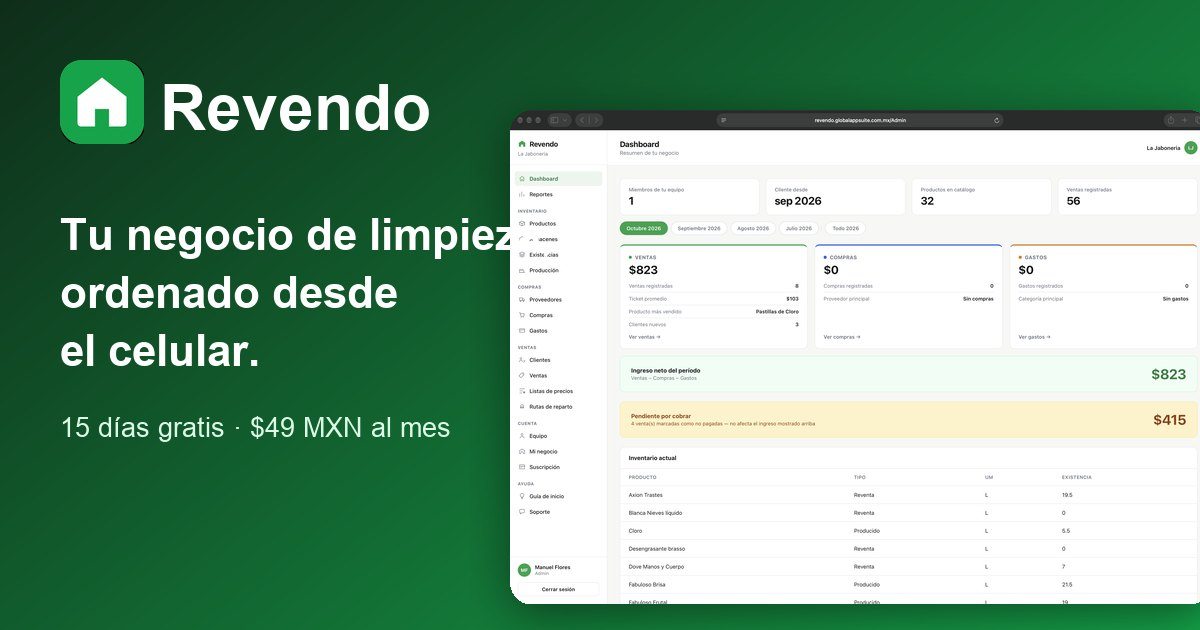
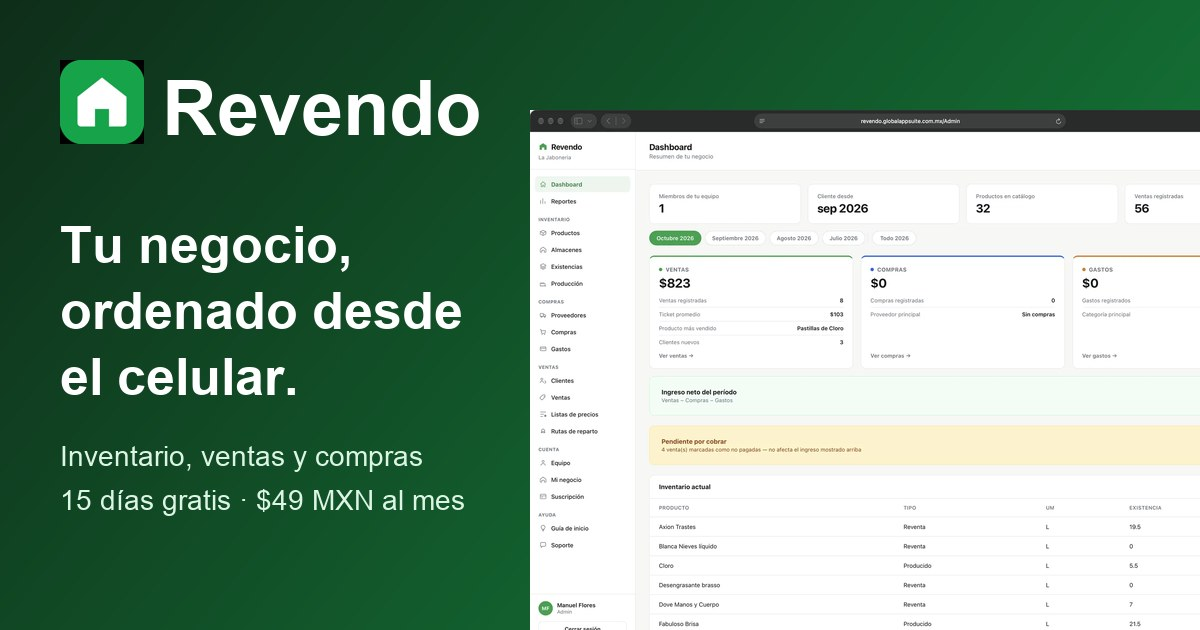
img

diff --git a/revendo/index.html b/revendo/index.html
@@ -3,8 +3,8 @@
 <head>
 <meta charset="UTF-8" />
 <meta name="viewport" content="width=device-width, initial-scale=1.0" />
-<title>Revendo — Controla tu negocio de limpieza desde el celular | 15 días gratis</title>
-<meta name="description" content="Inventario, ventas, compras, producción y reportes en un solo lugar. Hecho para quien vende productos de limpieza y hogar desde casa. Pruébalo 15 días gratis." />
+<title>Revendo — Inventario, ventas y compras desde el celular | 15 días gratis</title>
+<meta name="description" content="Inventario, ventas, compras, producción y reportes en un solo lugar. Para negocios que compran, producen o revenden productos: abarrotes, cosméticos, repostería, limpieza y más. Pruébalo 15 días gratis." />
 <meta name="author" content="Global App Suite" />
 <meta name="theme-color" content="#0f7a3d" />
 <link rel="canonical" href="https://www.globalappsuite.com.mx/revendo/" />
@@ -12,14 +12,14 @@
 <meta property="og:type" content="website" />
 <meta property="og:locale" content="es_MX" />
 <meta property="og:site_name" content="Revendo" />
-<meta property="og:title" content="Revendo — Tu negocio de limpieza, ordenado desde el celular" />
+<meta property="og:title" content="Revendo — Tu negocio, ordenado desde el celular" />
 <meta property="og:description" content="Ventas, compras, inventario, producción y reparto en un solo lugar. 15 días gratis, después $49 MXN al mes." />
 <meta property="og:url" content="https://www.globalappsuite.com.mx/revendo/" />
 <meta property="og:image" content="https://www.globalappsuite.com.mx/revendo/img/og.jpg" />
 <meta property="og:image:width" content="1200" />
 <meta property="og:image:height" content="630" />
 <meta name="twitter:card" content="summary_large_image" />
-<meta name="twitter:title" content="Revendo — Tu negocio de limpieza, ordenado desde el celular" />
+<meta name="twitter:title" content="Revendo — Tu negocio, ordenado desde el celular" />
 <meta name="twitter:description" content="Ventas, compras, inventario, producción y reparto en un solo lugar. 15 días gratis." />
 <meta name="twitter:image" content="https://www.globalappsuite.com.mx/revendo/img/og.jpg" />
 
@@ -238,6 +238,12 @@
   details[open] summary::after { transform: rotate(45deg); }
   details p { padding: 0 1.4rem 1.2rem; color: var(--muted); }
 
+  /* Rubros */
+  .rubros { padding: 2.25rem 0; border-block: 1px solid var(--border); background: var(--surface); }
+  .rubros p { text-align: center; font-weight: 700; margin-bottom: 1rem; }
+  .rubros ul { list-style: none; display: flex; flex-wrap: wrap; justify-content: center; gap: .6rem; }
+  .rubros li { padding: .45rem 1rem; border: 1px solid var(--border); border-radius: 999px; background: var(--bg); font-size: .92rem; color: var(--muted); }
+
   /* Contacto */
   .contacto-caja { max-width: 620px; margin: 0 auto; }
   .formulario { display: grid; gap: 1rem; background: var(--surface); border: 1px solid var(--border); border-radius: 18px; padding: 1.75rem; }
@@ -341,8 +347,8 @@
   <div class="portada">
     <div class="contenedor portada-grid">
       <div>
-        <span class="etiqueta">Para negocios de limpieza y hogar</span>
-        <h1>Tu negocio de limpieza, <em>ordenado desde el celular.</em></h1>
+        <span class="etiqueta">Para negocios que compran, producen y venden</span>
+        <h1>Tu negocio, <em>ordenado desde el celular.</em></h1>
         <p class="sub">Revendo lleva tus ventas, compras, inventario y reparto en un solo lugar. Sabe cuánto tienes, cuánto vendes y cuánto ganas, sin libretas ni hojas de cálculo.</p>
         <div class="botones">
           <a class="btn" href="https://revendo.globalappsuite.com.mx/Account/Register">Empieza gratis 15 días</a>
@@ -360,18 +366,35 @@
     </div>
   </div>
 
+  <!-- ═════════ RUBROS ═════════ -->
+  <div class="rubros">
+    <div class="contenedor">
+      <p>Si manejas producto, Revendo es para ti</p>
+      <ul>
+        <li>Abarrotes y tiendas</li>
+        <li>Limpieza y hogar</li>
+        <li>Cosméticos y cuidado personal</li>
+        <li>Repostería y alimentos</li>
+        <li>Papelería y regalos</li>
+        <li>Ropa y accesorios</li>
+        <li>Distribuidores</li>
+        <li>Y cualquier negocio que compre y venda</li>
+      </ul>
+    </div>
+  </div>
+
   <!-- ═════════ PROBLEMA ═════════ -->
   <section>
     <div class="contenedor">
       <div class="titulo-seccion revelar">
         <h2>¿Te suena familiar?</h2>
-        <p>Vender desde casa es un buen negocio, hasta que el control se te sale de las manos.</p>
+        <p>Vender es un buen negocio, hasta que el control se te sale de las manos.</p>
       </div>
       <div class="dolores">
         <div class="tarjeta revelar">
           <span class="icono-emoji" aria-hidden="true">📦</span>
           <h3>"No sé cuánto me queda"</h3>
-          <p>Vendes y vendes, y hasta que se acaba el cloro te das cuenta. Con Revendo, cada venta descuenta tu inventario sola.</p>
+          <p>Vendes y vendes, y hasta que se acaba tu producto estrella te das cuenta. Con Revendo, cada venta descuenta tu inventario sola.</p>
         </div>
         <div class="tarjeta revelar">
           <span class="icono-emoji" aria-hidden="true">📝</span>
@@ -433,7 +456,7 @@
       <div class="fila revelar">
         <div class="fila-texto">
           <h3>¿Fabricas tus productos? También</h3>
-          <p>Si preparas tu propio cloro, jabón o desengrasante, define la receta una vez y Revendo hace las cuentas cada vez que produces.</p>
+          <p>Si preparas tus propios productos (jabones, cremas, salsas, pasteles…), define la receta una vez y Revendo hace las cuentas cada vez que produces.</p>
           <ul>
             <li>Separa insumos, productos que fabricas y productos de reventa</li>
             <li>Al producir, se descuentan los insumos y suben las existencias</li>

diff --git a/index.html b/index.html
@@ -426,18 +426,18 @@
           </div>
         </div>
       </div>
-      <a class="project-card" href="/revendo/">
+      <a class="project-card" href="/revendo/" target="_blank" rel="noopener">
         <div class="project-header">
           <p class="project-type">Producto propio · SaaS · Web y móvil</p>
-          <h3 class="project-title">Revendo: control para negocios de limpieza y hogar</h3>
+          <h3 class="project-title">Revendo: inventario, ventas y compras para tu negocio</h3>
         </div>
         <div class="project-body">
-          <p class="project-problem"><strong>Problema:</strong> Quien vende o fabrica productos de limpieza desde casa lleva inventario, ventas y compras en libretas y WhatsApp, sin saber cuánto tiene ni cuánto gana.</p>
+          <p class="project-problem"><strong>Problema:</strong> Quien compra, produce o revende productos lleva inventario, ventas y compras en libretas y WhatsApp, sin saber cuánto tiene ni cuánto gana.</p>
           <p class="project-problem"><strong>Solución:</strong> Plataforma web y app móvil con inventario por almacén, ventas, compras, producción con recetas, rutas de reparto y reportes. 15 días gratis.</p>
           <div class="project-stack">
             <span>ASP.NET Core</span><span>Flutter</span><span>SQL Server</span><span>Stripe</span>
           </div>
-          <span class="project-link">Conocer Revendo →</span>
+          <span class="project-link">Conocer Revendo ↗</span>
         </div>
       </a>
     </div>
